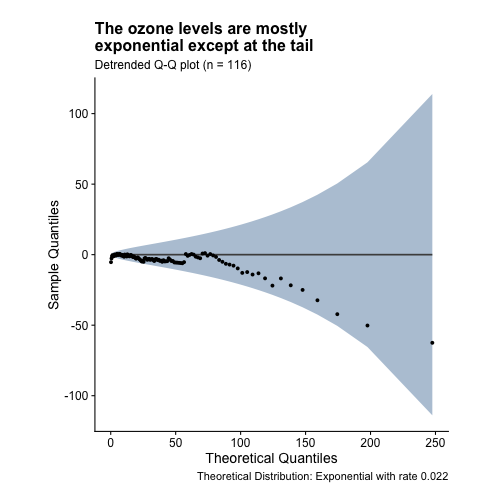
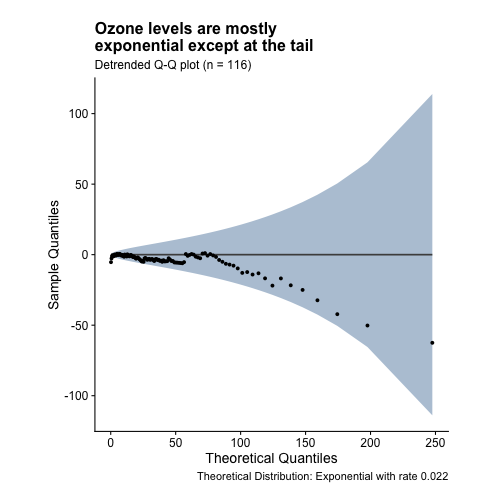
fixed overlapping titles when using test_normality()

Changed region(s): [[0.1786, 0.0298, 0.625, 0.0893]]

diff --git a/manuscript/03-04-qqplot.md b/manuscript/03-04-qqplot.md
@@ -67,7 +67,7 @@ normality check even easier and quicker. As an example, let's check if
 A>
 ```r
 plt = test_normality(iris)
-plt("Sepal.Length")
+plt("Sepal.Length", font_size = 9)
 ```
 
 ![Normality check of Sepal.Length](images/test_norm_sepallength-1.png)
